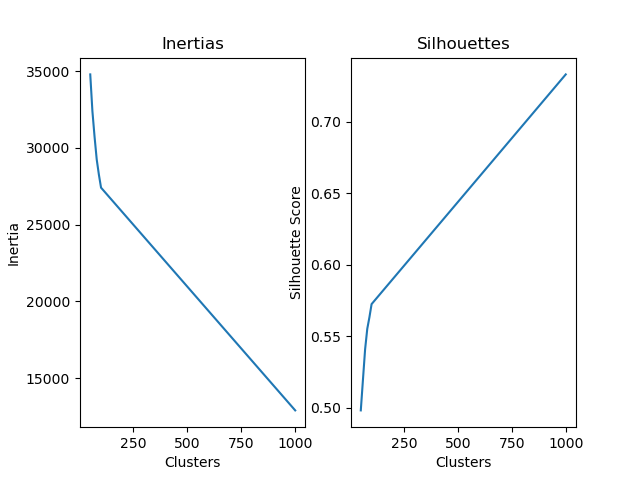
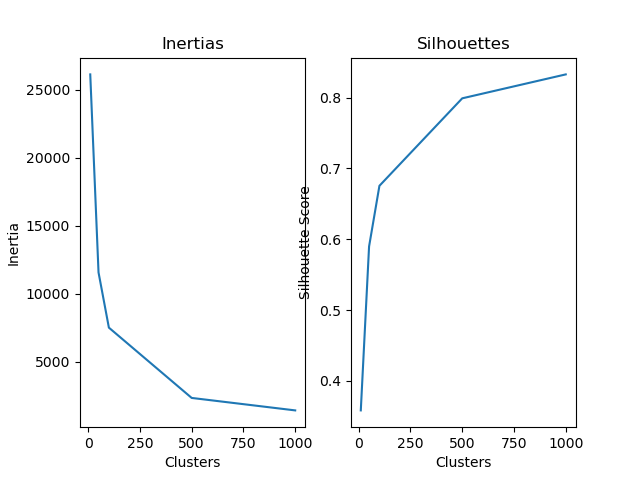
Edit about page with static images and formatting, without differing links

diff --git a/templates/about.html b/templates/about.html
@@ -1,19 +1,40 @@
 {% extends "base.html" %}
 
 {% block content %}
-<h2>About</h2>
+<div class="jumbotron">
+    <h2>Contents</h2>
+<ul>
+    <li><a href="#about">About</a></li>
+    <li><a href="#originalDataset">Original Dataset</a></li>
+    <li><a href="#preprocessing">Preprocessing</a></li>
+    <ul>
+        <li><a href="#combinedPurpose">Alternate Preprocessing and Clustering</a></li>
+    </ul>
+    <li><a href="#visualizations">Visualizations</a></li>
+    <ul>
+        <li><a href="#wordCloud">Word Cloud Visualization</a></li>
+        <li><a href="#networkVis">Network Graph Visualization</a></li>
+        <li><a href="#doc2vec">Word Embedding for Clustering and Cosine Similarity</a></li>
+    </ul>
+    <li><a href="#interactivity">Network Visualization Interactivity</a></li>
+    <li><a href="#webApp">Web Application Deployment</a></li>
+</ul>
+
+</div>
+
+<h2 id="about">About</h2>
 <h5>This page is meant to provide insight into the data and workflow used to produce the visualizations of the application.</h5>
 
-<h5>The overall <b>goal</b> of FDA Drug Label Visualization is to provide the opportunity to visually traverse a network graph
-    containing a wide array of drugs serving a particular <b>purpose</b> to observe similarities and differences within the contents of its drug label <b>fields</b>.</h5>
+<p>The overall goal of FDA Drug Label Visualization is to provide the opportunity to visually traverse a network graph
+    containing a wide array of drugs serving a particular <b>purpose</b> to observe similarities and differences within the contents of its drug label <b>fields</b>.</p>
 
-<p>Plenty of information is available on the Internet regarding FDA-approved drugs, but remains primarily in text-based formats without
-a way to zoom in and out of various subsets of drugs. With the FDA drug label data, a visualization relating drugs to
+<p>Plenty of information is available on the Internet regarding FDA-approved drugs, but it remains primarily in text-based formats without
+a way to zoom in and out of various subsets of drugs. Conslidating FDA drug label data into a visualization relating drugs to
 each other may be an approachable answer. This type of visualization network may be useful not only for observing relationships between drugs, but
 any other content that contains extensive subcategories and products.
-    The application is a functional, static-based but interactive proof-of-concept visualization.</p>
+    The proof-of-concept application on this website is a functional, static-based but interactive web visualization.</p>
 
-<h2>Original Dataset</h2>
+<h2 id="originalDataset">Original Dataset</h2>
 <p>The full data set is available on <a href="https://open.fda.gov/downloads/">openFDA</a> as API endpoint data.
 It consists of a collection of 9 JSON files, each around 600 MB uncompressed save the last.
 The endpoint is continuously being updated.
@@ -25,68 +46,125 @@ filled-in fields. To obtain drug labels containing information relevant for this
 drug labels that did not meet the completeness requirement were dropped. In the future, possible inclusion of this data could
 be performed for a complete overview of all current FDA-approved drugs, but this may require imputation of empty, important fields.</p>
 
-<h2>Preprocessing</h2>
+<h2 id = "preprocessing">Preprocessing</h2>
 <p>The endpoint data was read altogether into a master dataframe using <b>ijson</b>, where only drug labels with valid <b>purpose</b>
-    or <b>indications and usage</b> fields were compiled.
-This resulted in ~159,800 drug labels with complete fields for <b>purpose</b> or <b>indications and usage</b>. Both of these fields
-    were chosen, as certain drugs (primarily prescription drugs) did not have a valid <b>purpose</b> field.
-    The <b>indications and usage</b> field typically elaborates on the purpose, with some information on usage. For certain drugs,
-    the <b>purpose</b> is more relevant, and for others the <b>indications and usage</b> is.
+    fields were compiled. This resulted in ~95,000 drug labels derived from the approximately 160,000 drug labels in the entire dataset.</p>
 
-The display of drug types for this raw dataset is as follows.
+The display of drug types for this purpose dataset is as follows.
 
-<img src="{{ url_for('static', filename='about/OTC_Presc_purpose_indic.png') }}">
+<figure>
+    <img src="{{ url_for('static', filename='about/OTC_Presc_purpose.png') }}">
+    <figcaption>Drug Types (OTC, Prescription)</figcaption>
+</figure>
 
-<p>From this dataframe, drug labels without adequate descriptive fields for the user:
-    <b>brand_name, route, product_type (OTC/Prescription)</b> were dropped from the dataframe.</p>
-<p>Ultimately, there were about 81,000 "complete" drug labels corresponding to drugs for the purpose of the project.</p>
+<p>However, to provide drug labels with adequate descriptive fields for the user, drug labels with invalid
+    <b>brand_name, route, product_type (OTC/Prescription)</b>
+    were dropped from the dataframe to yield 51,940 final drug labels pickled into a file for use in preprocessing.</p>
 
 <p>For the remaining valid drug labels, the following fields were tokenized and lemmatized by <b>spacy</b>:
-    <b>purpose, indications_and_usage, active_ingredient, inactive_ingredient, warnings, dosage_and_administration</b>.
-    These would be the fields selectable by the user: clusters of different <b>purpose/indications and usage</b> drugs
-    and the field by which to sort those <b>purpose/indications and usage</b> in terms of similarity. <br/>
-Several words were openly restricted from the space: "purpose", "use", "active", "inactive", "ingredient", "warning", "treatment", "indication."
+    <b>purpose, active_ingredient, inactive_ingredient, warnings, dosage_and_administration, indications_and_usage</b>
+    and pickled as a separate dataframe.
+    These would be the fields selectable by the user: clusters of different <b>purpose</b> drugs
+    and the field by which to sort those drug labels belonging to that <b>purpose</b> in terms of similarity. <br/>
+Several word lemmas were openly restricted from the tokenized output: "purpose", "use", "active", "inactive", "ingredient", "warning", "treatment", "indication."
 These words were extremely common and not informative to the visualizations.</p>
 
-<p>The drug labels were clustered into 50 purposes such that the user will be able to select from these pre-sorted purposes when observing drugs.</p> <br/>
-<p>The preprocessed <b>purpose</b> and <b>indications and usage</b> fields were concatenated together as one
-    <b>combined_purpose</b> for all valid drug labels, which were transformed into TF-IDF matrices.</p> <br/>
+<p>The drug labels were clustered into 50 purposes such that the user would be able to select from these pre-sorted purposes when observing drugs.</p> <br/>
+<p>The preprocessed <b>purpose</b> fields for all valid drug labels were transformed into a TF-IDF matrix.</p> <br/>
 
 <p>Term frequency-inverse document frequency (TF-IDF) is a common representation for documents consisting of phrases to sentences.
     It accounts for appearance of words in documents, while weighting against rather mundane words that typically appear in the English language.</p> <br/>
 
-<p>K-means clustering, an unsupervised clustering method defaulted to Euclidean distance, was performed on the TF-IDF transformed drug label combined purposes.
-K-means partitioned all (purposes of) drug labels into a preset 50 clusters. In the naive implementation, k-means assigns drug labels
-to centroids and repeatedly updates the means based on least squared Euclidean distance until convergence (assignment unchanging).
-A rather arbitrary 50 clusters (silhouette score ~ .5) was chosen after intended optimization maximizing silhouette scores and reducing inertia revealed that
-    the clusters were not decreasing in effectiveness past 1000 clusters, which would be unmanageable both for users and project scope.
-Top importance keywords were retrieved from the TF-IDF features corresponding to each of these 50 clusters,
-as the summary of purpose per cluster. Though clustering results were not perfect, some categories were particularly effective
-and specific. Further refinement on clustering method as well as lack of or increased text preprocessing may improve results.</p> <br/>
+<p>With likely tens of thousands of features, the columns of the TF-IDF matrix were consolidated to 300 by
+<b>sklearn</b> TruncatedSVD, or essentially latent semantic analysis (LSA). Truncated singular value decomposition results in linear
+dimensionality reduction. Unlike PCA, which brings about a similar end product, it is particularly ideal for sparse matrices.
+TruncatedSVD, or LSA with respect to natural language processing constructs a lower-dimension representation of the documents:
+    in this case, the documents would be the drug label purposes.</p>
 
-<img src="{{ url_for('static', filename='about/silhouette.png') }}">
+<p>K-means clustering, an unsupervised clustering method defaulted to Euclidean distance, was performed on the TF-IDF transformed drug label purposes.
+K-means partitioned all (purposes of) drug labels into a preset number of clusters. In the naive implementation, k-means assigns drug labels
+to centroids and repeatedly updates the means based on least squared Euclidean distance until convergence (assignment unchanging).
+K-means clustering effectiveness can be represented by the inertia--sum of squared distances between samples and
+    identified clusters--and silhouette scores--an indication of how well samples in their respective clusters are separated from others.
+    Inertia should be minimized and silhouette should be maximized for an ideal number of clusters.</p>
+
+<p>K-means was first performed without SVD, resulting in the following general trend for inertia and silhouette from 10-1000 clusters.</p>
+
+<figure>
+    <img src="{{ url_for('static', filename='about/silhouette_no_lsa.png') }}">
+    <figcaption>Inertia and Silhouette Scores for Purpose Clusters Without SVD</figcaption>
+</figure>
+
+<p>K-means was later performed with the SVD matrix, resulting in slightly higher silhouette scores consistently and faster computation time.</p>
+
+<figure>
+    <img src="{{ url_for('static', filename='about/silhouette.png') }}">
+    <figcaption>Inertia and Silhouette Scores for Purpose Clusters With SVD (Final)</figcaption>
+</figure>
+
+
+<p>A rather arbitrary 50 clusters (silhouette score = .589) was chosen after intended optimization of cluster number
+    maximizing silhouette scores and reducing inertia revealed that the clusters were not decreasing in effectiveness past 1000 clusters,
+    which would be unmanageable both for users and project scope.
+Top importance keywords were retrieved from the TF-IDF features corresponding to each of these 50 clusters,
+to constitute the purpose per cluster. Though clustering results were not perfect, some categories were particularly effective
+and specific. Further refinement on clustering method as well as lack of or increased text preprocessing may improve results.</p> <br/>
 
 <p>Here is the distribution of drug labels among the final purpose clusters.</p>
 
-<img src="{{ url_for('static', filename='about/per_cluster_all.png') }}">
+<figure>
+    <img src="{{ url_for('static', filename='about/per_cluster_all.png') }}">
+    <figcaption>Counts of Drug Labels Per Labeled Purpose Cluster</figcaption>
+</figure>
 
-<h2>Visualizations</h2>
-<p>For every combination of combined purpose (<b>purpose</b> and <b>indications and usage</b>) with the relevant fields
-    (<b>active ingredient, inactive ingredient, dosage and administration, warnings</b>), the following visualizations were generated.</p>
+<h3 id="combinedPurpose">Alternate Preprocessing and Clustering</h3>
+
+<p>Another method of identifying drugs was by compiling both the drug labels' <b>purpose</b> and <b>indications and usage</b> fields.
+This resulted in ~159,800 drug labels with complete fields for <b>purpose</b> or <b>indications and usage</b>. Both of these fields
+    were chosen to include more of the dataset, as certain drugs (primarily prescription drugs) did not have a valid <b>purpose</b> field.
+    The <b>indications and usage</b> field typically elaborates on the purpose, with some information on usage. For certain drugs,
+    the <b>purpose</b> is more relevant, and for others the <b>indications and usage</b> is.</p>
+
+<p>Again, drug labels without adequate descriptive fields for the user:
+    <b>brand_name, route, product_type (OTC/Prescription)</b> were dropped from the dataframe.
+    Ultimately, there were about 81,000 "complete" drug labels corresponding to drugs for the purpose of the project.</p>
+
+<p>All relevant drug label fields were similarly tokenized and lemmatized as in the final analysis with the blacklisted word lemmas.
+The preprocessed <b>purpose</b> and <b>indications and usage</b> fields were now concatenated together as one
+    <b>combined_purpose</b> for each of the valid drug labels. This preprocessed result was pickled as a separate dataframe.</p>
+
+<p>The <b>combined_purpose</b> of all valid drug labels was transformed into a TF-IDF matrix.
+TruncatedSVD/LSA required around a 500 feature length to surpass 80% explained variance of the transformed TF-IDF.
+K-means performed with 10-1000 clusters on the <b>combined_purpose</b> dataset demonstrated poorer scores and thus likely poorer
+    clustering performance than the K-means performed with only the <b>purpose</b> dataset. Scoring with split drug datasets
+clustering OTC drugs (typically shorter descriptions) and prescription drugs (typically longer descriptions) was also poorer.</p>
+
+<figure>
+    <img src="{{ url_for('static', filename='about/silhouette_combined_purpose.png') }}">
+    <figcaption>Inertia and Silhouette Scores for Combined Purpose Clusters With SVD (Final)</figcaption>
+</figure>
+
+<p>Therefore after further deliberation, the enlarged dataset was dropped in favor of the more cohesive, smaller dataset.</p>
+
+<h2 id="visualizations">Visualizations</h2>
+<p>For every combination of <b>purpose</b> with the relevant fields
+    (<b>active ingredient, inactive ingredient, dosage and administration, warnings, indications and usage</b>),
+    the following visualizations were generated.</p>
 <p>As not every drug label contained every field, drug labels without the particular field for which visualizations were generated
     were temporarily dropped. Thus it was not possible that every drug label in a purpose cluster was in every visualization for all fields. <br/>
 Another case was that no drug labels existed for certain comparisons of fields (none of these--often prescription--drug labels
-contained a valid entry for the field), and these therefore had no visualizations generated for this combination.</p>
+contained a valid entry for the field), and these therefore had no visualizations generated for this combination.
+This happened for <b>combined_purpose</b> dataset runs, but not in the final <b>purpose</b> cluster dataset</p>
 
-<h3>Word Cloud Visualization</h3>
-<p>The first visualization provided to the user upon their selection of a pre-sorted purpose and a field with which to arrange the drugs by content, is a word cloud.
+<h3 id="wordCloud">Word Cloud Visualization</h3>
+<p>The first visualization is a word cloud, provided to the user upon their selection of a pre-sorted purpose and a field with which to arrange the drugs by content.
     The word cloud depicts common words and two-word phrases within the field content of these drugs. It is generated using <b>wordcloud</b>.</p>
 <p>HTML/CSS/JS functionality was implemented to expand the word cloud image in a modal for closer examination.</p>
 
-<h3>Network Graph Visualization</h3>
+<h3 id="networkVis">Network Graph Visualization</h3>
 <p>The main visualization is the network graph, configured in <b>bokeh</b> with further user interactivity using bokeh's <b>CustomJS</b>.
-The network graph is a collection of nodes that represent topics consolidated from the user-selected field content for drug labels
-of the user-selected purpose. Each topic therefore summarizes a number of drug labels.</p>
+The network graph is a collection of topics, represented as nodes, organized from the user-selected field content for drug labels
+of the user-selected purpose. Each topic therefore encompasses a number of drug labels.</p>
 
 <p>The nodes, or topics, were generated by transforming all the pre-processed field content for all drug labels of the relevant purpose
 into a TF-IDF matrix. This TF-IDF matrix was used with the <b>sklearn</b> implementation of Latent Dirichlet Allocation to
@@ -94,7 +172,7 @@ generate topics based on the total number of drug labels: number of drug labels 
 for this formula was rather arbitrary, mainly to manage drug labels in approachable clusters and not overcrowd the visualization space.</p>
 
 <p>Latent Dirichlet Allocation relies on the assumption that a document is composed of various topics, and
-    words can be attributed to various topics, allowing for topic classification of document.
+    words can be attributed to various topics, allowing for topic classification per document.
 The Dirichlet prior is used to model the document-word-topic distributions. For my implementation, I used maximum probability of topics
     to assign each drug label to a topic node. The number of calculated topics was again, an arbitrary number of topics gleaned from optimizing
 the LDA output for a subset cluster of drug labels. Since many drug labels are assigned to less than the calculated topics in finality,
@@ -114,29 +192,39 @@ Only the top n=8 number of edges by similarity to other topics is allowed to rem
 n edges per node, though slightly differing due to the linear nature of the trim and increasing with number of nodes (topics) present.
     The matrix of edges is sparser, increasing readability for the graph.</p>
 
-<h3>Alternative Clustering and Cosine Similarity</h3>
+<h3 id="doc2vec">Attempts Using Word Embedding for Clustering and Cosine Similarity</h3>
 <p><b>Doc2vec</b> is a word embedding library that uses <b>word2vec</b> principles. Each paragraph or sample is
 represented through paragraph/document vectors, which are built upon word vectors that can be trained through two main
 models: distributed memory (paragraph vectors represent semantics along with word vectors constructed to describe all samples)
     and distributed bag of words (forcing predictions of words in each paragraph with concatenation of paragraph and word
 vectors).</p>
 
-<p>An alternative approach to purpose clustering using <b>doc2vec</b> trained a model with all existing <b>combined_purpose</b> fields of
+<p>An alternative approach to purpose clustering using <b>doc2vec</b> trained a model with either all existing <b>purpose</b> or <b>combined_purpose</b> fields of
 drug labels, and inferred a collection of vectors from relevant drug label purposes. The array of vectors was clustered using KMeans.
     With <b>doc2vec</b> implementation, there is not a direct ability to obtain top keywords as with TF-IDF. When grouped together
 under the same cluster, there did appear to be congruencies between types of drug products and clusters, though with potential anomalies.
-    Given the more involved nature of training and implementation of a model developed for unsupervised clustering, without a clearly
-    more effective result and without direct feature-word relation, TF-IDF was chosen still to be the main, faster, and
-    reasonably thorough method. If <b>doc2vec</b> is chosen again to cluster based on <b>purpose</b>-only or
-    <b>combined_purpose</b> fields' content, it may be more effective at parsing semantic meaning with refinement.</p>
+    Scoring the K-means clusters from 10-1000 for <b>purpose</b> drug labels converted to length 100 document vectors
+    demonstrated lower silhouette scores than K-means using TF-IDF and SVD, though the silhouette scores did not continue increasing
+    as with TF-IDF and SVD K-means clusters. Scoring the K-means clusters from 10-1000 for <b>combined_purpose</b> using
+doc2vec was very poor (not shown).</p>
+
+<figure>
+    <img src="{{ url_for('static', filename='about/silhouette_doc2vec_purpose-only.png') }}">
+    <figcaption>Inertia and Silhouette Scores for Purpose Clusters Using Doc2Vec Vectors</figcaption>
+</figure>
+
+<p>Given the more involved nature of training and implementation of a model developed for unsupervised clustering, without a clearly
+    more effective result and without direct feature-word relation, TF-IDF was chosen to be the main, faster, and
+    reasonably thorough matrix representation. If <b>doc2vec</b> is chosen again to cluster based on <b>purpose</b>-only or
+    <b>combined_purpose</b> fields' content, it may be more effective at parsing semantic meaning if rigorously refined.</p>
 
 <p>Out of curiosity, <b>doc2vec</b> vectors of <b>purpose</b>-only fields of drug labels were clustered using
     Latent Dirichlet Allocation into topics to observe whether purposes could fall into clearly defined groups. This yielded
-much fewer topics than the 50 topic/cluster cutoff. The topics were defined but rather general. Several identifiable subsets,
+much fewer topics than the 50 topic/cluster cutoff. The topics were defined but rather general. Several separable subsets,
 such as pairing nighttime sleep aids with rash medication, remained together. This was ultimately not the better way to
 categorize purposes for proper visualization of subsets of drugs and would likely have happened with <b>combined_purpose</b>.</p>
 
-<p>Cosine similarity calculations were also performed with paragraph vectors, inferred from models trained on unlisted
+<p>Cosine similarity calculations were also performed with document/paragraph vectors, inferred from models trained on unlisted
     drug labels (those without a valid <b>purpose</b> field). Each model was trained for a specific field (e.g. <b>warnings</b>
     had its own model), and used to calculate vectors for a particular purpose cluster of drugs. Similar to clustering, there did
 not seem to be a distinct difference in ultimate network graph results between TF-IDF and <b>doc2vec</b> methods with respect
@@ -144,7 +232,7 @@ not seem to be a distinct difference in ultimate network graph results between T
     The results could be more intently compared in the future for accuracy. TF-IDF remained the fast, feature-driven
 method used for cosine similarity weighting.</p>
 
-<h3>Graph Interactivity</h3>
+<h3 id="interactivity">Network Visualization Interactivity</h3>
 <p>In summary, the network visualization is composed of nodes that represent topics, summarizing subsets of drug labels
 of a particular purpose based on the user-selected drug field content. The edges and edge widths represent similarity between the topics.</p>
 <p>A variety of attribute information is attached to the topic nodes as a hovercard for user interactivity purposes.</p>
@@ -163,17 +251,21 @@ of a particular purpose based on the user-selected drug field content. The edges
     <li>Brand name</li>
     <li>Route</li>
     <li>Product type</li>
-    <li>Purpose for a succinct summary, or Indications and Usage if no Purpose field is found</li>
-    <li>Relevant field content</li>
+    <li>Purpose</li>
+    <li>Relevant full field content</li>
 </ul>
 
-<h2>Web Application Deployment</h2>
+<p>The purpose and field content relevant to the particular drug label were obtained from the raw content in the drug label data,
+joined by dataframe to the preprocessed dataframe for identification.</p>
+
+<h2 id="webApp">Web Application Deployment</h2>
 <p><b>Heroku</b> server built with a <b>Flask</b> web framework served as the hosting structure for this application.
-    Due to the nature of Heroku's limitations on RAM and worker processes, iterations of the full network construction process could not be
+    Due to the nature of Heroku's limitations on RAM and worker processes, iterations of the full network visualization process could not be
     applied directly using the Flask backend. This led to generation of the interactive visualizations as static (but interactable)
     HTML network graph dashboards from <b>bokeh</b> and static image file generation of the word clouds for each of the
     finite combinations of 50 purposes of drug labels sorted by one of five fields, resulting in ~250 combinations minus
-    clusters of drug labels that did not happen to have valid entries for a particular field. </p>
+    clusters of drug labels that did not happen to have valid entries for a particular field. All 250 combinations were valid
+using the <b>purpose</b> clustered dataset.</p>
 
 <p>The index page was generated using the valid combinations of purposes and fields (stored in hard-coded dictionaries within the app).
 <b>select2</b> was used to create a search-select box for the purposes.

diff --git a/templates/base.html b/templates/base.html
@@ -26,13 +26,13 @@
 </head>
 
 <body>
-    <nav class="navbar navbar-expand-sm navbar-dark bg-dark">
+    <nav class="navbar navbar-expand-sm fixed-top navbar-dark bg-dark">
     <a class="navbar-brand" href="/">FDA Drug Vis</a>
     <button class="navbar-toggler" type="button" data-toggle="collapse" data-target="#navbarNav"
             aria-controls="navbarNav" aria-expanded="false" aria-label="Toggle navigation">
         <span class="navbar-toggler-icon"></span>
     </button>
-    <div class="collapse navbar-collapse" id="navbarNavDropdown">
+    <div class="collapse navbar-collapse" id="navbarNav">
         <ul class="navbar-nav">
             <li class="nav-item">
                 <a class="nav-link" href="https://github.com/liuzcat9/fda-druglabel-desc">Github</a>
